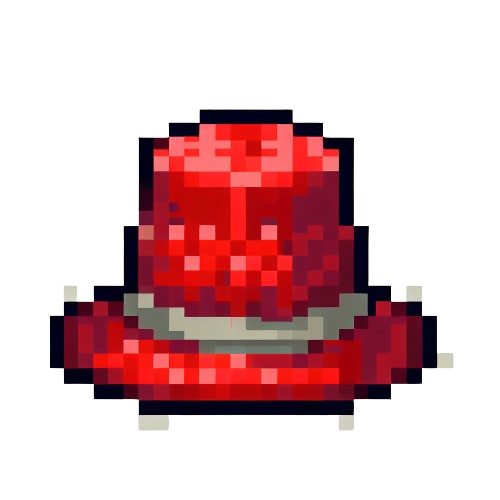
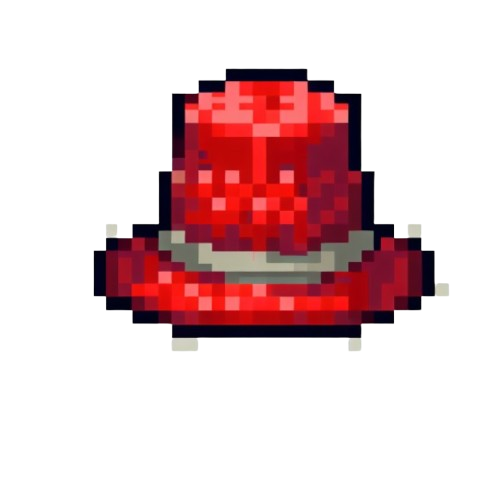
accessory-styling-fixed

diff --git a/groupproject/application/templates/profile.html b/groupproject/application/templates/profile.html
@@ -33,14 +33,14 @@
             }
 
             .bird-bows{
-                width: 20%;
-                right: 180px;
+                width: 15%;
+                right: 170px;
             }
 
             .bird-hats{
                 width:20%;
-                top: 55px;
-                right: 200px;
+                top: 45px;
+                right: 170px;
             }
 
             .bird-item_left{

diff --git a/groupproject/application/templates/user_page.html b/groupproject/application/templates/user_page.html
@@ -34,13 +34,13 @@ Authors: Ashley Card, Maryia Fralova -->
 
             .bird-bows{
                 width: 20%;
-                right: 180px;
+                right: 170px;
             }
 
             .bird-hats{
                 width:20%;
-                top: 55px;
-                right: 200px;
+                top: 45px;
+                right: 170px;
             }
 
             .bird-item_left{
